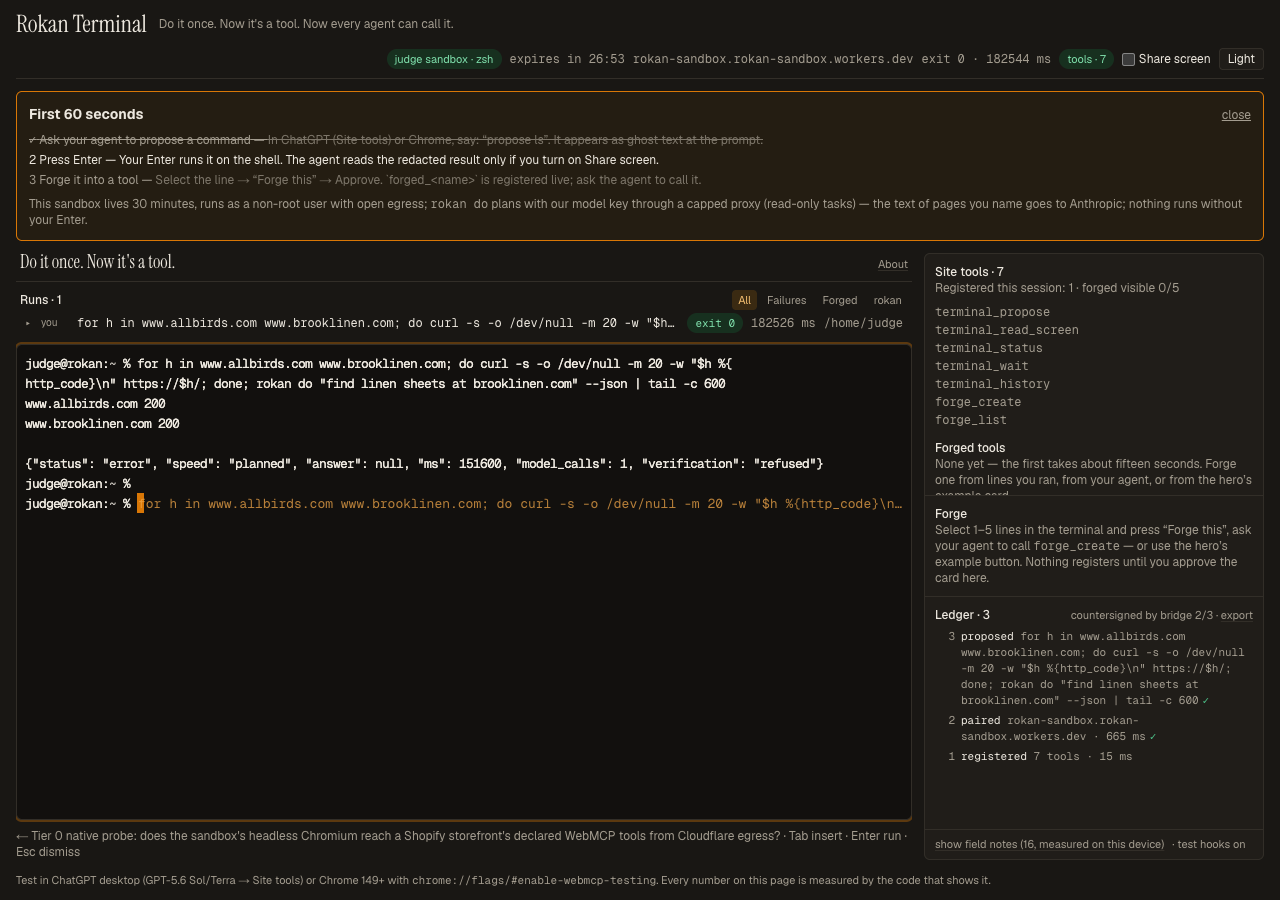
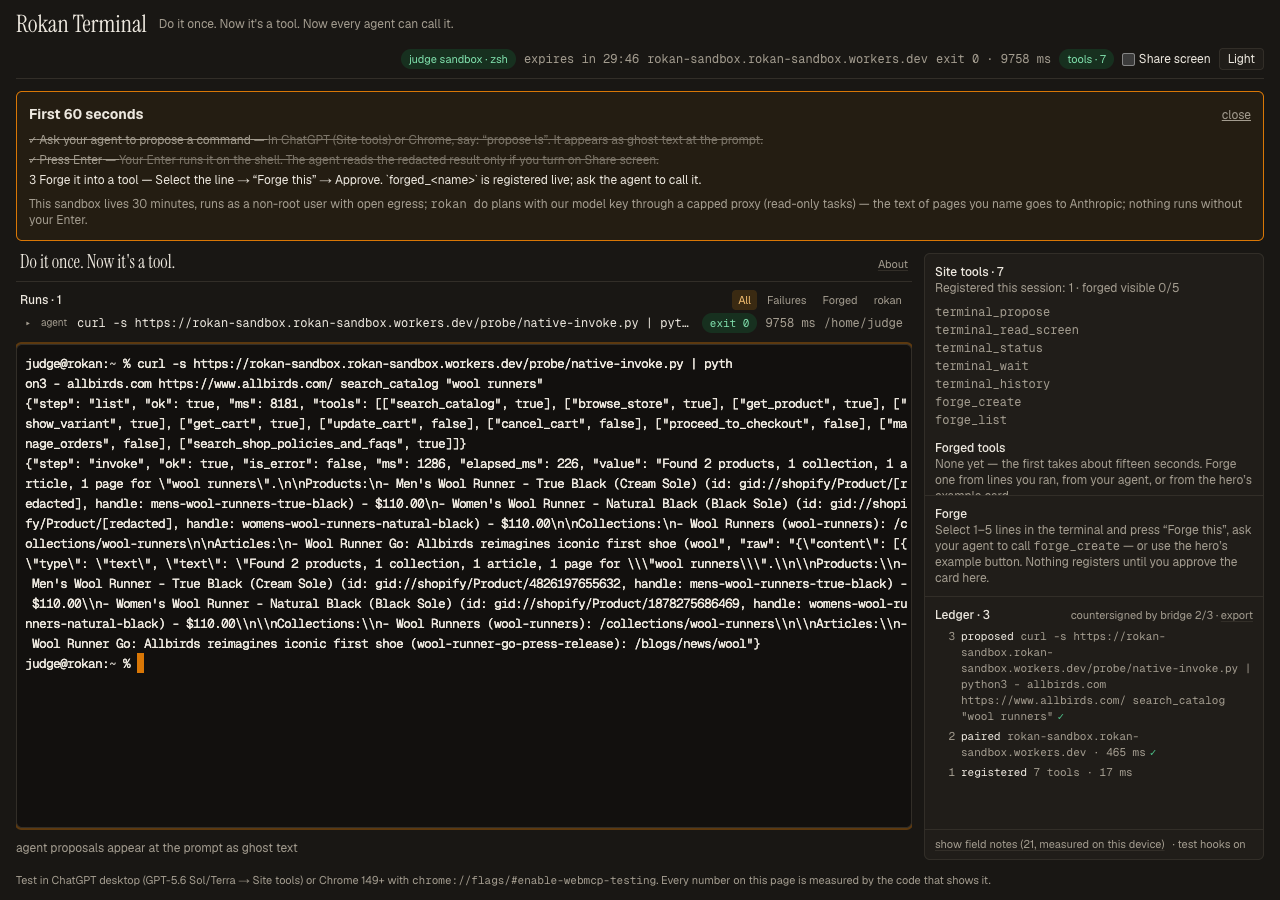
infra(sandbox): standard-3 — Tier 0 native needs the CPU (½ vCPU listed 0 store tools live)
Claude-Session: https://claude.ai/code/session_01RJtGvkhmwd2qdLot5U3zBz

diff --git a/docs/FIELD-NOTES.md b/docs/FIELD-NOTES.md
@@ -172,5 +172,5 @@ rokan-do's own Playwright; Allbirds is the demo storefront; invoke/latency numbe
 ## Executor (a) — a store's declared tool invoked by the judge image's own Chromium, 0 model calls (2026-08-30, Engineer #4)
 
 - **Local judge image** (`rokan-sandbox-rokansandbox:a20dc8f6`, amd64 under emulation, `--user 1000`, the image's policy env: headless, no-sandbox, `ROKAN_TASK_CLASSES=read_value,read_list`, `ROKAN_GUARD_ALL_HOSTS=1`; Mac egress), `evals/diagnostics/native-invoke-probe.py`: `list_tools(allbirds.com)` → **10 tools in 8 866 ms** (5 auto-invokable: search_catalog, browse_store, get_product, show_variant, get_cart, search_shop_policies_and_faqs; 4 writes refused by name); `invoke search_catalog {"catalog":{"query":"wool runners"}}` → **ok, 469 ms tool time (1 300 ms wall), 0 model calls**: "Men's Wool Runner - True Black … $110.00". Evidence: `docs/evidence/probe/2026-08-30-native-invoke-local-image.jsonl`. Bundled Chromium 151 is enough (also lists Allbirds' tools from the Mac via the CDP harness after a 6 s settle; Playwright 1.62.0 — newest — bundles the same 151.0.7922.34).
-- **Live judge sandbox** (Cloudflare egress, ½ vCPU): curl to allbirds/brooklinen → HTTP 200; `rokan do "find wool runners at allbirds.com"` → tools listed, 1 select call spent, **`native.invoke` returned not-ok** ("native tool declined; falling back to the browser") → planner → `navigation_failed` after ~85–150 s. Root cause (IP-level tool endpoint refusal vs CPU timeout) pending the in-sandbox run of the same probe script (`/probe/native-invoke.py`).
+- **Live judge sandbox** (Cloudflare egress, ½ vCPU): curl to allbirds/brooklinen → HTTP 200; `rokan do "find wool runners at allbirds.com"` → tools listed, 1 select call spent, **`native.invoke` returned not-ok** ("native tool declined; falling back to the browser") → planner → `navigation_failed` after ~85–150 s. **Root cause: CPU.** Same probe script from the live sandbox (`/probe/native-invoke.py`): on `standard-1` (½ vCPU) `list_tools` → **0 tools in 14 839 ms** (the daemon stops listening 3 s after `domcontentloaded`; Allbirds registers later); on **`standard-3` (2 vCPU), same image → 10 tools in 8 181 ms, `search_catalog` ok, 226 ms tool time (1 286 ms wall), 0 model calls** (`docs/evidence/probe/2026-08-30-native-invoke-live-sandbox-standard-3.jsonl`). Shipped both: instance `standard-3` (wrangler.jsonc) and `ROKAN_WEBMCP_QUIET_MS=15000` (Rokan `d62b290`, rokan-mcp 0.1.3, image `787f810`).
 - Reading: executor (a) is real and measured; the sandbox gap is ops, not architecture, and it matters for the shipped product's Tier 0 story as much as for any Workbench.

diff --git a/docs/PROGRESS.md b/docs/PROGRESS.md
@@ -3,7 +3,7 @@
 Last update: **2026-08-29 ~22:45 local (Engineer #4, Fable 5 — heads engineering; owns the whole tree)** Branch `main`, all pushed.
 
 ## Build log — Engineer #4 (2026-08-29 ~20:25 local, open-net sandbox LIVE — proofs so far)
-Deployed: image `sha256:506cb8e0…` on **`standard-1`**, fleet `ready`; Worker versions `ae7003af` → sid-first fix
+Deployed: image `sha256:506cb8e0…` on **`standard-3`** (2 vCPU — standard-1's ½ vCPU listed 0 store tools live, 2026-08-30), fleet `ready`; Worker versions `ae7003af` → sid-first fix
 (`9f10bfd`). Live probes: health ok · header-less `POST /api/session` → **403** · eval secret → **201** · bogus sid →
 **403** · GET → 405 · `count_tokens` → 404 · real sid without the key → 503 "model proxy not configured" (honest).
 Judge suite on the new fleet: **13/15** — `terminal-judge-isolation` PASS on the new image (dummy key, proxy URL,
@@ -69,7 +69,7 @@ demo.** Shipped on `main` (commits `52080c9 f904528 6c425db a896ac6 3834e84 196e
   **$40 all-time**), 429 + `x-should-retry:false` on a trip. Container gets `ANTHROPIC_BASE_URL` + the literal
   `ANTHROPIC_API_KEY=judge-sandbox-proxy`. Verified against the real SDK (1.2.0 in rokan-do's venv) with a stub base
   URL: body keys `{model,max_tokens,messages,system,temperature,output_config}`, no `anthropic-beta`, 9.9 KB.
-- **Image:** Playwright full `chromium` on `standard-1` (½ vCPU, 4 GiB, 8 GB disk). Local smoke: **2 424 MB
+- **Image:** Playwright full `chromium` on `standard-3` (2 vCPU, 8 GiB; was standard-1 ½ vCPU until 2026-08-30 — Tier 0 needs the CPU, see FIELD-NOTES). Local smoke: **2 424 MB
   unpacked** (guard 3 500), bridge hello 1 590 ms, seeded replay ⚡ 917 ms, **headless Chromium boots as uid 1000
   and loads a page in 2.6 s** (`scripts/browser-probe.py`). Read-only policy baked in: `ROKAN_TASK_CLASSES=
   read_value,read_list`, `ROKAN_GUARD_ALL_HOSTS=1`, `ROKAN_BROWSER_NO_SANDBOX=1`, `--disable-dev-shm-usage`.

diff --git a/docs/HANDOFF.md b/docs/HANDOFF.md
@@ -81,7 +81,7 @@ all defended in `docs/SELF-EVAL-2026-08-29.md` and the PROGRESS `## Objections` 
 | Web | **200** `https://rokan-terminal.vercel.app` (nonce CSP, HSTS, X-Frame-Options DENY). Deploy: `cd apps/web && vercel --prod --yes`. |
 | Judge sandbox | **200** `https://rokan-sandbox.rokan-sandbox.workers.dev/api/health`. Worker version `9fba0038`+; image = `Dockerfile.rokan` (multi-stage, 1 532 MB, **no browser**). |
 | **`rokan do` LIVE** | **Fixed this session.** Judge suite **11/11** incl. `terminal-rokan-real` (⚡ replay) + `terminal-judge-isolation` (no key/no vault). |
-| Caps | `SESSIONS_PER_IP_PER_10MIN=10`, `MAX_CONCURRENT_PER_IP=5`, `max_instances=20` on `standard-1`; model proxy caps in SECURITY §9 (30/session, 60/IP/10 min, 600/day, $40 all-time). Set 2026-08-29 evening per the approved open-net plan; the earlier 50/20 testing row is retired. |
+| Caps | `SESSIONS_PER_IP_PER_10MIN=10`, `MAX_CONCURRENT_PER_IP=5`, `max_instances=20` on `standard-3` (2 vCPU; Tier 0 live needs it); model proxy caps in SECURITY §9 (30/session, 60/IP/10 min, 600/day, $40 all-time). Set 2026-08-29 evening per the approved open-net plan; the earlier 50/20 testing row is retired. |
 | Green gate (this session) | web **133** · bridge **8 units + smoke 38/38** · sandbox **15** · evals runner 2 + prompt-line 7 + **real-PTY 12** · **live judge 11/11**. |
 | Git | HEAD `c6a5b0a`, `main`, clean (except demo-evidence PNGs). Aarya pushes demo docs; **you share this checkout — never `git add -A`, add only your files.** |
 

diff --git a/docs/SECURITY.md b/docs/SECURITY.md
@@ -160,7 +160,7 @@ rokan-do's Chromium) before it ever plans against the DOM. The boundary is read-
 **Judging-window caps (single source of truth; Arav signs off before the tightening deploy).** The
 Worker vars are the enforcement; this table supersedes any number quoted elsewhere in the docs:
 
-| phase | `SESSION_TTL_MS` | `SESSIONS_PER_IP_PER_10MIN` | `MAX_CONCURRENT_PER_IP` | `max_instances` (`standard-1`) | model calls / session (`MODEL_CALLS_PER_SID`) | / sid / min | / IP / 10 min | / day | all-time USD (`MODEL_USD_TOTAL_MAX`) |
+| phase | `SESSION_TTL_MS` | `SESSIONS_PER_IP_PER_10MIN` | `MAX_CONCURRENT_PER_IP` | `max_instances` (`standard-3`, 2 vCPU) | model calls / session (`MODEL_CALLS_PER_SID`) | / sid / min | / IP / 10 min | / day | all-time USD (`MODEL_USD_TOTAL_MAX`) |
 |---|---|---|---|---|---|---|---|---|---|
 | now (open-net, **deployed 2026-08-29 evening**) | 1 800 000 (30 min) | 10 | 5 | 20 | 120 weighted (a Sonnet call weighs 3; one cold `rokan do` ≈ 6–10) | 40 | 240 | 2 000 | 40 |
 | judging window (freeze → results) | 3 600 000 (60 min) | 10 | 5 | 20 | 120 | 40 | 240 | 2 000 | 40 (+ the key's own console limit) |
